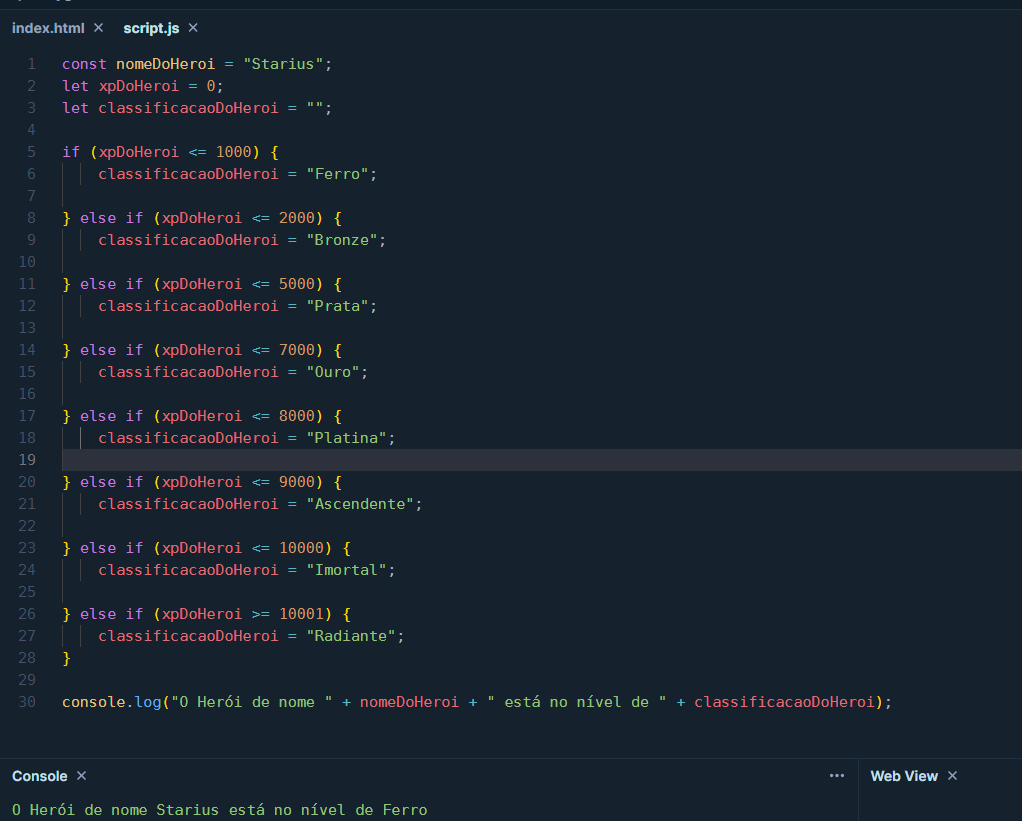
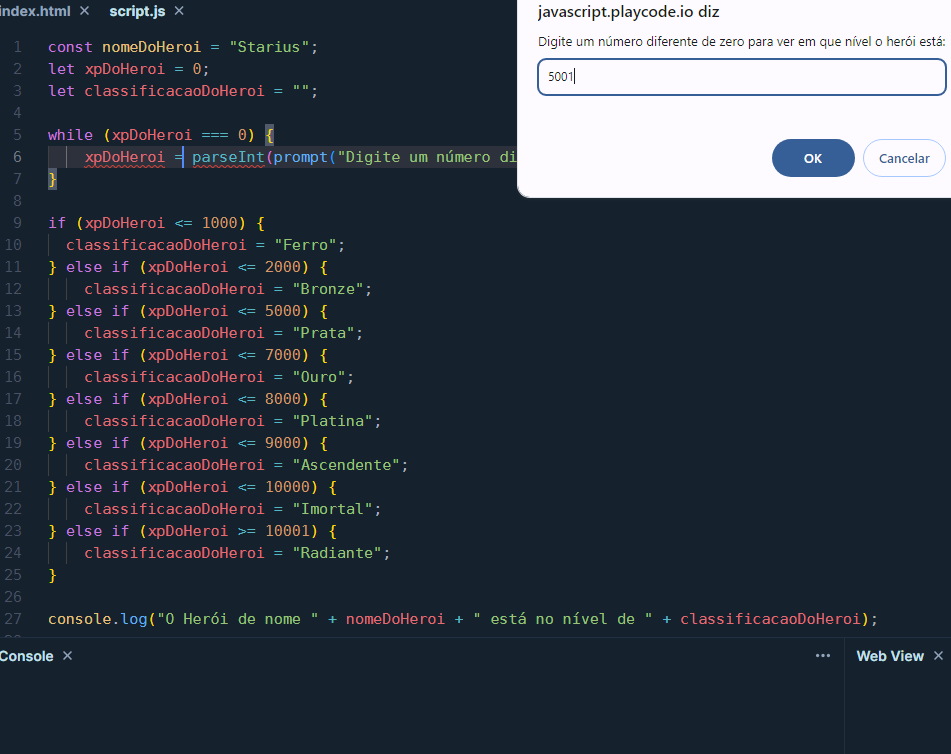
v4
adicionado estrutura de loops no desafio 1 e 2, fora os update dos prints

diff --git a/Desafio 2/script.js b/Desafio 2/script.js
@@ -1,9 +1,8 @@
 const nomeDoHeroi = "Starius";
+let numerosDeLutasDoHeroi = 0;
 
 function classificarHeroi(numerosDeLutas) {
-    if (numerosDeLutas === 0) {
-        return "Sem lutas";
-    } else if (numerosDeLutas <= 10) {
+    if (numerosDeLutas <= 10) {
         return "Ferro";
     } else if (numerosDeLutas <= 20) {
         return "Bronze";
@@ -20,7 +19,10 @@ function classificarHeroi(numerosDeLutas) {
     }
 }
 
-let numerosDeLutasDoHeroi = 0;
+while (numerosDeLutasDoHeroi <= 0) {
+    numerosDeLutasDoHeroi = parseInt(prompt("Digite um número diferente de zero para ver em que nível o herói está:"));
+}
+
 let classificacaoDoHeroi = classificarHeroi(numerosDeLutasDoHeroi);
 
-console.log(`O Herói ${nomeDoHeroi} tem de saldo ${numerosDeLutasDoHeroi} lutas, e está no nível de ${classificacaoDoHeroi}.`);
+console.log(`O Herói ${nomeDoHeroi} tem de saldo ${numerosDeLutasDoHeroi} lutas, e está no nível de ${classificacaoDoHeroi}.`)

diff --git a/Desafio 1/script.js b/Desafio 1/script.js
@@ -2,27 +2,24 @@ const nomeDoHeroi = "Starius";
 let xpDoHeroi = 0;
 let classificacaoDoHeroi = "";
 
-if (xpDoHeroi <= 1000) {
-    classificacaoDoHeroi = "Ferro";
+while (xpDoHeroi === 0) {
+    xpDoHeroi = parseInt(prompt("Digite um número diferente de zero para ver em que nível o herói está:"));
+}
 
+if (xpDoHeroi <= 1000) {
+	classificacaoDoHeroi = "Ferro";
 } else if (xpDoHeroi <= 2000) {
     classificacaoDoHeroi = "Bronze";
-
 } else if (xpDoHeroi <= 5000) {
     classificacaoDoHeroi = "Prata";
-
 } else if (xpDoHeroi <= 7000) {
     classificacaoDoHeroi = "Ouro";
-
 } else if (xpDoHeroi <= 8000) {
     classificacaoDoHeroi = "Platina";
-
 } else if (xpDoHeroi <= 9000) {
     classificacaoDoHeroi = "Ascendente";
-
 } else if (xpDoHeroi <= 10000) {
     classificacaoDoHeroi = "Imortal";
-
 } else if (xpDoHeroi >= 10001) {
     classificacaoDoHeroi = "Radiante";
 }
